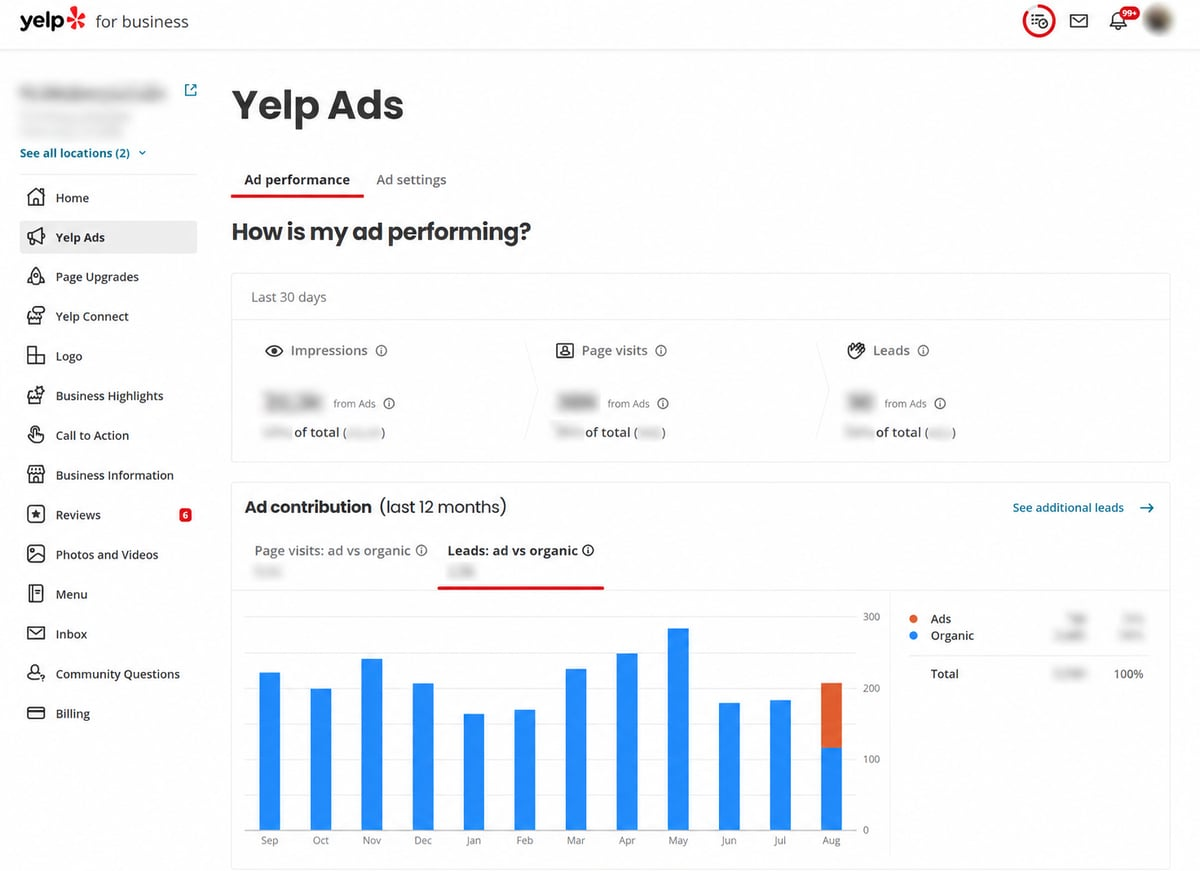
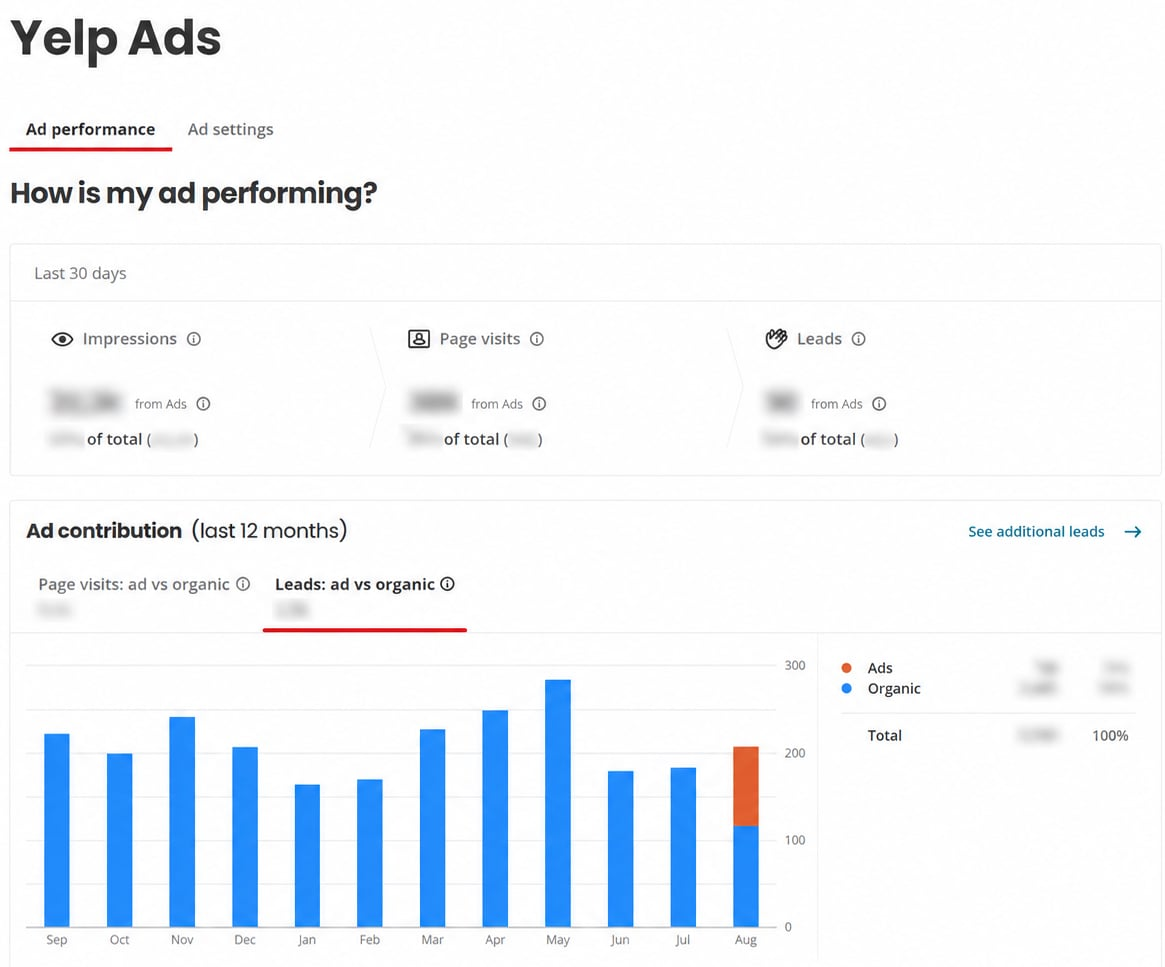
Swap in better images for 4 Beyond the Feed tiles
- Content Calendar: actual planning table instead of a generic
  analytics chart.
- Community Management: same comment thread, usernames blurred for
  privacy.
- Influencer Outreach: 3x3 grid of Reels including the HI5DEN collab
  feature, instead of a single post screenshot.
- Paid Social and Ads: cleaner crop of the Yelp Ads dashboard.

diff --git a/src/data/portfolio.ts b/src/data/portfolio.ts
@@ -20,12 +20,12 @@ export const portfolioItems: PortfolioItem[] = [
   {
     category: 'Content Calendar',
     image: '/portfolio/beyond-content-calendar.jpg',
-    alt: 'Monthly content calendar spreadsheet for YLS Bakery & Cafe',
+    alt: 'Content calendar planning table for YLS Bakery & Cafe',
   },
   {
     category: 'Community Management',
     image: '/portfolio/beyond-community.jpg',
-    alt: 'Instagram comment replies on a YLS Bakery & Cafe post',
+    alt: 'Instagram comments and replies on a YLS Bakery & Cafe post',
   },
   {
     category: 'Email Campaign',
@@ -35,7 +35,7 @@ export const portfolioItems: PortfolioItem[] = [
   {
     category: 'Influencer Outreach',
     image: '/portfolio/beyond-collabs.jpg',
-    alt: 'Influencer collaboration post featuring YLS Bakery & Cafe',
+    alt: 'Grid of YLS Bakery & Cafe Reels including a collab feature with HI5DEN',
   },
   {
     category: 'Paid Social and Ads',
